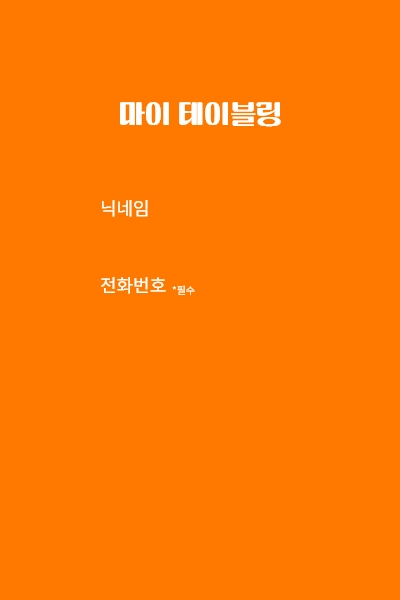
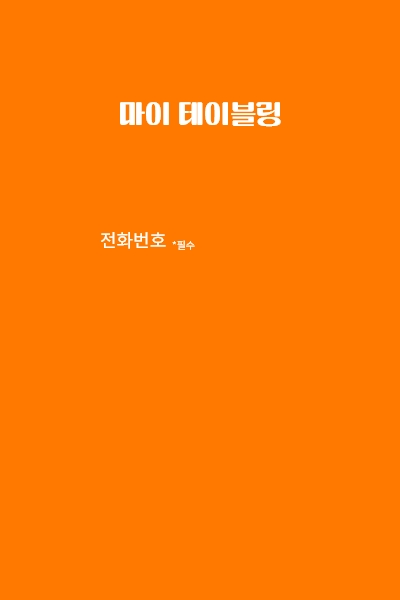
로그인창 닉네임칸 지우기

Changed region(s): [[0.24, 0.45, 0.48, 0.51], [0.24, 0.33, 0.48, 0.42]]

diff --git a/src/ver01frame/CustomerLoginFrame.java b/src/ver01frame/CustomerLoginFrame.java
@@ -27,8 +27,7 @@ public class CustomerLoginFrame extends JFrame {
 
 	private JLabel loginBtn;
 	private JLabel registerBtn;
-	private JLabel quitBtn; // TODO
-	private JTextField nameText;
+	private JLabel quitBtn;
 	private JTextField phoneText;
 	private boolean loginCheck;
 	private BackgroundPanel backgroundPanel;
@@ -49,7 +48,6 @@ public class CustomerLoginFrame extends JFrame {
 		loginBtn = new JLabel(new ImageIcon("img/loginBtn.png"));
 		registerBtn = new JLabel(new ImageIcon("img/signInBtn.png"));
 		quitBtn = new JLabel(new ImageIcon("img/quitBtn.png"));
-		nameText = new JTextField();
 		phoneText = new JTextField();
 
 		signInFrame = new SignInFrame();
@@ -78,12 +76,7 @@ public class CustomerLoginFrame extends JFrame {
 		quitBtn.setBounds(10, 10, 30, 50);
 		backgroundPanel.add(quitBtn);
 
-		nameText.setBounds(90, 230, 100, 30);
-		nameText.setSize(220, 25);
-		nameText.setFont(new Font("Noto Sans KR", Font.BOLD, 15));
-		backgroundPanel.add(nameText);
-
-		phoneText.setBounds(90, 300, 100, 30);
+		phoneText.setBounds(90, 270, 100, 30);
 		phoneText.setSize(220, 25);
 		phoneText.setFont(new Font("Noto Sans KR", Font.BOLD, 15));
 		backgroundPanel.add(phoneText);
@@ -104,25 +97,15 @@ public class CustomerLoginFrame extends JFrame {
 			@Override
 			public void mousePressed(MouseEvent e) {
 
-				if (nameText.getText().equals("") && !phoneText.getText().equals("")) {
+				if (!phoneText.getText().equals("")) {
 					if ((customerDTO = userDao.authenticatePhone(phoneText.getText())) != null) {
 						JOptionPane.showMessageDialog(null, "로그인 되었습니다.", "성공", JOptionPane.WARNING_MESSAGE);
-						// TODO dao 필요 고객 테이블 접근해서 값 받아 와야됨, 
+						setVisible(false);
 						new MainMenuFrame(customerDTO);
 					} else {
 						JOptionPane.showMessageDialog(null, "존재하지 않는 유저 정보입니다.", "경고", JOptionPane.WARNING_MESSAGE);
 					}
-				} else if (!nameText.getText().equals("") && !phoneText.getText().equals("")) {
-					try {
-						if (userDao.authenticateAll(nameText.getText(), phoneText.getText())) {
-							JOptionPane.showMessageDialog(null, "", "경고", JOptionPane.WARNING_MESSAGE);
-						}
-					} catch (SQLException e1) {
-						e1.printStackTrace();
-					}
-
 				}
-
 			}
 		});
 
@@ -134,7 +117,7 @@ public class CustomerLoginFrame extends JFrame {
 			}
 		});
 
-		// 전화번호 8자 이상 입력불가
+		// 전화번호 8자 이상 입력불가 & 숫자만 입력 가능
 		phoneText.addKeyListener(new KeyAdapter() {
 
 			@Override
